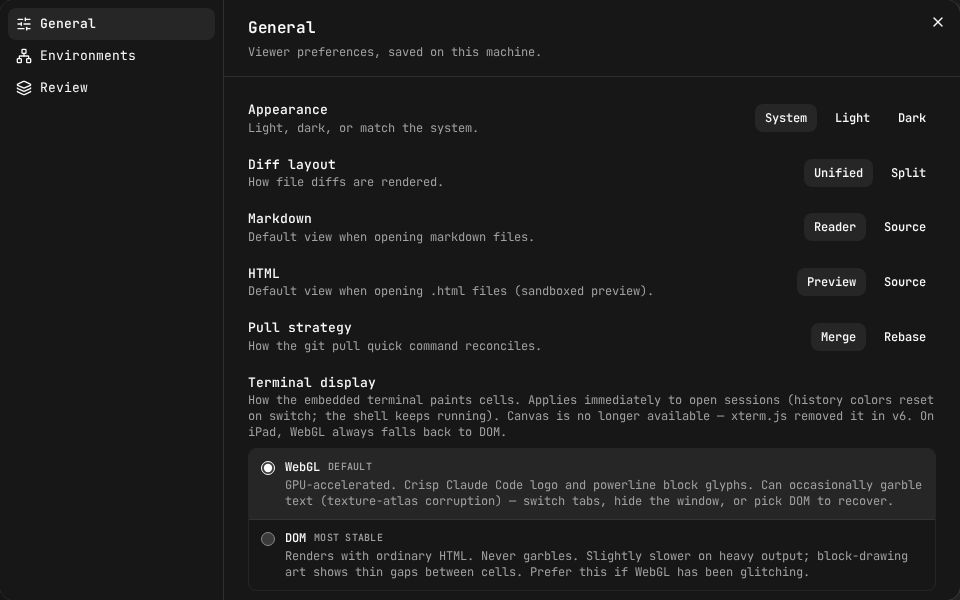
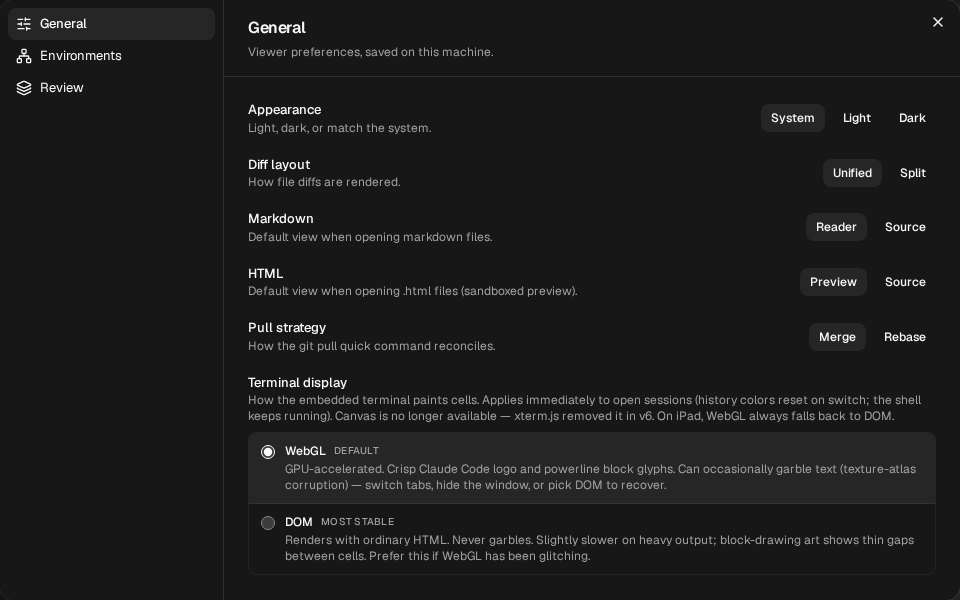
feat: typography system — Geist sans for UI chrome and prose, mono reserved for codelike content
Claude-Session: https://claude.ai/code/session_01XhxMm3P1RAuk83ZvdUqAnq

diff --git a/src/renderer/src/assets/main.css b/src/renderer/src/assets/main.css
@@ -2,6 +2,7 @@
 @plugin "@tailwindcss/typography";
 @import "tw-animate-css";
 @import "shadcn/tailwind.css";
+@import "@fontsource-variable/geist";
 @import "@fontsource-variable/geist-mono";
 @import "@fontsource-variable/jetbrains-mono";
 
@@ -18,10 +19,13 @@
 @custom-variant dark (&:is(.dark *));
 
 @theme inline {
-    --font-heading: var(--font-mono);
-    /* nova preset: JetBrains Mono is the body font (font jetbrains-mono, fontHeading
-       inherit) — the app renders mono end to end. */
-    --font-sans: 'JetBrains Mono Variable', monospace;
+    --font-heading: var(--font-sans);
+    /* Typography system (design overhaul, Phase A): Geist is the default sans face
+       for all UI chrome and prose (panels, buttons, menus, board cards, chat,
+       Review/markdown prose). Mono (JetBrains Mono, --font-mono below) is reserved
+       for codelike content only — code/diffs, file paths & names, +/− diff counts,
+       SHAs, branch/worktree names, kbd shortcuts, and code chips. */
+    --font-sans: 'Geist Variable', ui-sans-serif, system-ui, sans-serif;
     --color-sidebar-ring: var(--sidebar-ring);
     --color-sidebar-border: var(--sidebar-border);
     --color-sidebar-accent-foreground: var(--sidebar-accent-foreground);
@@ -255,9 +259,10 @@
     @apply bg-background text-foreground;
   }
   html {
-    @apply bg-background font-mono;
+    @apply bg-background font-sans;
     /* JetBrains Mono's coding ligatures merge `===`, `!==`, `=>`, `??` into single
-       glyphs that read as a solid bar — disable them so operators stay legible. */
+       glyphs that read as a solid bar — disable them (inherited by the mono code
+       surfaces) so operators stay legible. Harmless for the sans body. */
     font-variant-ligatures: none;
   }
 }

diff --git a/src/renderer/src/components/shell/tab-bar.tsx b/src/renderer/src/components/shell/tab-bar.tsx
@@ -78,9 +78,17 @@ function TabItem({
                   {tab.pinned ? (
                     <Pin className="size-3 shrink-0 text-muted-foreground" aria-hidden />
                   ) : null}
-                  {/* pr-0.5 on the italic case: truncate's overflow:hidden would otherwise
+                  {/* File/diff tab titles are file names → mono (matching the tree + file
+                      header); Review/Board/Terminal/etc. carry labels → sans.
+                      pr-0.5 on the italic case: truncate's overflow:hidden would otherwise
                       shear the slanted top-right overhang of the last glyph (e.g. the x in .tsx). */}
-                  <span className={cn('max-w-40 truncate', tab.preview && 'italic pr-0.5')}>
+                  <span
+                    className={cn(
+                      'max-w-40 truncate',
+                      (tab.kind === 'file' || tab.kind === 'diff') && 'font-mono',
+                      tab.preview && 'italic pr-0.5',
+                    )}
+                  >
                     {tab.title}
                   </span>
                   <Button

diff --git a/src/renderer/src/components/git/changes-list.tsx b/src/renderer/src/components/git/changes-list.tsx
@@ -167,7 +167,7 @@ function FileRowImpl({
                 )}
                 <span
                   className={cn(
-                    'truncate text-sm-minus',
+                    'truncate font-mono text-sm-minus',
                     isReviewed && 'text-muted-foreground line-through',
                   )}
                 >
@@ -184,11 +184,14 @@ function FileRowImpl({
                   </span>
                 )}
               </span>
-              <span className="max-w-full truncate text-xs text-muted-foreground" dir="rtl">
+              <span
+                className="max-w-full truncate font-mono text-xs text-muted-foreground"
+                dir="rtl"
+              >
                 {dirName(file.path)}
               </span>
               {connects && (
-                <span className="max-w-full truncate text-xs text-muted-foreground/70">
+                <span className="max-w-full truncate font-mono text-xs text-muted-foreground/70">
                   → {connects}
                 </span>
               )}

diff --git a/src/renderer/src/components/git/branch-switcher.tsx b/src/renderer/src/components/git/branch-switcher.tsx
@@ -110,7 +110,7 @@ export function BranchSwitcher(): React.JSX.Element | null {
             className="app-no-drag flex min-w-0 items-center gap-1.5 rounded-md px-2 py-1 text-xs text-muted-foreground hover:bg-sidebar-accent hover:text-sidebar-accent-foreground focus-visible:outline-none focus-visible:ring-2 focus-visible:ring-ring/50"
           >
             <GitBranch className="size-3.5 shrink-0" />
-            <span className="truncate">{branch ?? '…'}</span>
+            <span className="truncate font-mono">{branch ?? '…'}</span>
           </button>
         }
       />
@@ -140,7 +140,7 @@ export function BranchSwitcher(): React.JSX.Element | null {
                     ) : (
                       <span className="size-4 shrink-0" />
                     )}
-                    <span className="truncate">{b.name}</span>
+                    <span className="truncate font-mono">{b.name}</span>
                   </CommandItem>
                 ))}
               </CommandGroup>
@@ -155,7 +155,7 @@ export function BranchSwitcher(): React.JSX.Element | null {
                     className="text-xs-plus"
                   >
                     <span className="size-4 shrink-0" />
-                    <span className="truncate">
+                    <span className="truncate font-mono">
                       <span className="text-muted-foreground">{b.remote}/</span>
                       {b.name}
                     </span>
@@ -196,7 +196,7 @@ export function BranchSwitcher(): React.JSX.Element | null {
             }}
             placeholder="Branch name"
             aria-label="Branch name"
-            className="rounded-md"
+            className="rounded-md font-mono"
           />
           <DialogFooter>
             <Button variant="ghost" onClick={() => setCreateOpen(false)}>

diff --git a/src/renderer/src/components/git/search-list.tsx b/src/renderer/src/components/git/search-list.tsx
@@ -94,9 +94,12 @@ function FileGroup({
           >
             <ChevronRight className="size-3 shrink-0 text-muted-foreground transition-transform" />
             <FileTypeIcon name={name} className="size-3.5 shrink-0" />
-            <span className="shrink-0 truncate text-sm-minus">{name}</span>
+            <span className="shrink-0 truncate font-mono text-sm-minus">{name}</span>
             {dir && (
-              <span className="min-w-0 flex-1 truncate text-xs text-muted-foreground" dir="rtl">
+              <span
+                className="min-w-0 flex-1 truncate font-mono text-xs text-muted-foreground"
+                dir="rtl"
+              >
                 {dir}
               </span>
             )}

diff --git a/src/renderer/src/components/shell/file-finder.tsx b/src/renderer/src/components/shell/file-finder.tsx
@@ -178,9 +178,12 @@ export function FileFinder(): React.JSX.Element {
                     ) : (
                       <FileTypeIcon name={name} className="shrink-0" />
                     )}
-                    <span className="shrink-0 text-sm-minus">{name}</span>
+                    <span className="shrink-0 font-mono text-sm-minus">{name}</span>
                     {dir && (
-                      <span className="min-w-0 truncate text-xs text-muted-foreground" dir="rtl">
+                      <span
+                        className="min-w-0 truncate font-mono text-xs text-muted-foreground"
+                        dir="rtl"
+                      >
                         {dir}
                       </span>
                     )}

diff --git a/src/renderer/src/components/shell/welcome.tsx b/src/renderer/src/components/shell/welcome.tsx
@@ -92,7 +92,10 @@ export function Welcome(): React.JSX.Element {
                 <Folder className="size-4 shrink-0 text-muted-foreground" />
                 <span className="flex min-w-0 flex-col items-start">
                   <span className="truncate text-sm">{repo.name}</span>
-                  <span className="max-w-full truncate text-xs text-muted-foreground" dir="rtl">
+                  <span
+                    className="max-w-full truncate font-mono text-xs text-muted-foreground"
+                    dir="rtl"
+                  >
                     {repo.path}
                   </span>
                 </span>

diff --git a/src/renderer/src/components/agent/agents-quick-access.tsx b/src/renderer/src/components/agent/agents-quick-access.tsx
@@ -273,7 +273,9 @@ function FilesGroup({ threadId }: { threadId: string }): React.JSX.Element | nul
                   file.action === 'read' ? 'text-muted-foreground' : 'text-foreground',
                 )}
               />
-              <span className="min-w-0 flex-1 truncate text-xs text-foreground">{name}</span>
+              <span className="min-w-0 flex-1 truncate font-mono text-xs text-foreground">
+                {name}
+              </span>
               <span className="shrink-0 text-2xs text-muted-foreground capitalize">
                 {file.action}
               </span>

diff --git a/src/renderer/src/components/git/feature-list.tsx b/src/renderer/src/components/git/feature-list.tsx
@@ -98,7 +98,7 @@ function OutlineFileRowImpl({
             )}
             <span
               className={cn(
-                'truncate text-sm-minus',
+                'truncate font-mono text-sm-minus',
                 (file.source !== 'changed' || isReviewed) && 'text-muted-foreground',
                 isReviewed && 'line-through',
               )}
@@ -115,7 +115,7 @@ function OutlineFileRowImpl({
             )}
           </span>
           {dir && (
-            <span className="max-w-full truncate text-xs text-muted-foreground" dir="rtl">
+            <span className="max-w-full truncate font-mono text-xs text-muted-foreground" dir="rtl">
               {dir}
             </span>
           )}

diff --git a/src/renderer/src/components/git/worktree-switcher.tsx b/src/renderer/src/components/git/worktree-switcher.tsx
@@ -52,8 +52,8 @@ export function WorktreeSwitcher(): React.JSX.Element | null {
           {worktrees.map((worktree) => (
             <DropdownMenuItem key={worktree.path} onClick={() => switchTo(worktree.path)}>
               <div className="flex min-w-0 flex-col">
-                <span className="truncate">{worktree.branch}</span>
-                <span className="truncate text-xs text-muted-foreground" dir="rtl">
+                <span className="truncate font-mono">{worktree.branch}</span>
+                <span className="truncate font-mono text-xs text-muted-foreground" dir="rtl">
                   {worktree.path}
                 </span>
               </div>

diff --git a/src/renderer/src/components/shell/tree-node.tsx b/src/renderer/src/components/shell/tree-node.tsx
@@ -280,7 +280,7 @@ function TreeNodeImpl({
             onDoubleClick={() => pinTab(tabId('file', entry.path))}
           >
             <FileTypeIcon name={entry.name} />
-            <span className="truncate">{entry.name}</span>
+            <span className="truncate font-mono">{entry.name}</span>
           </SidebarMenuButton>
         </EntryContextMenu>
       </SidebarMenuItem>
@@ -391,7 +391,7 @@ function DirNode({
               >
                 <ChevronRight className="transition-transform" />
                 <FolderIcon open={expanded} />
-                <span className="truncate">{entry.name}</span>
+                <span className="truncate font-mono">{entry.name}</span>
               </SidebarMenuButton>
             }
           />

diff --git a/src/renderer/src/components/git/history-list.tsx b/src/renderer/src/components/git/history-list.tsx
@@ -34,7 +34,8 @@ export function HistoryList(): React.JSX.Element {
               <div className="flex min-w-0 flex-col items-start">
                 <span className="max-w-full truncate">{commit.subject}</span>
                 <span className="max-w-full truncate text-xs text-muted-foreground">
-                  {commit.author} · {commit.date} · {commit.hash.slice(0, 7)}
+                  {commit.author} · {commit.date} ·{' '}
+                  <span className="font-mono">{commit.hash.slice(0, 7)}</span>
                 </span>
               </div>
             </SidebarMenuButton>